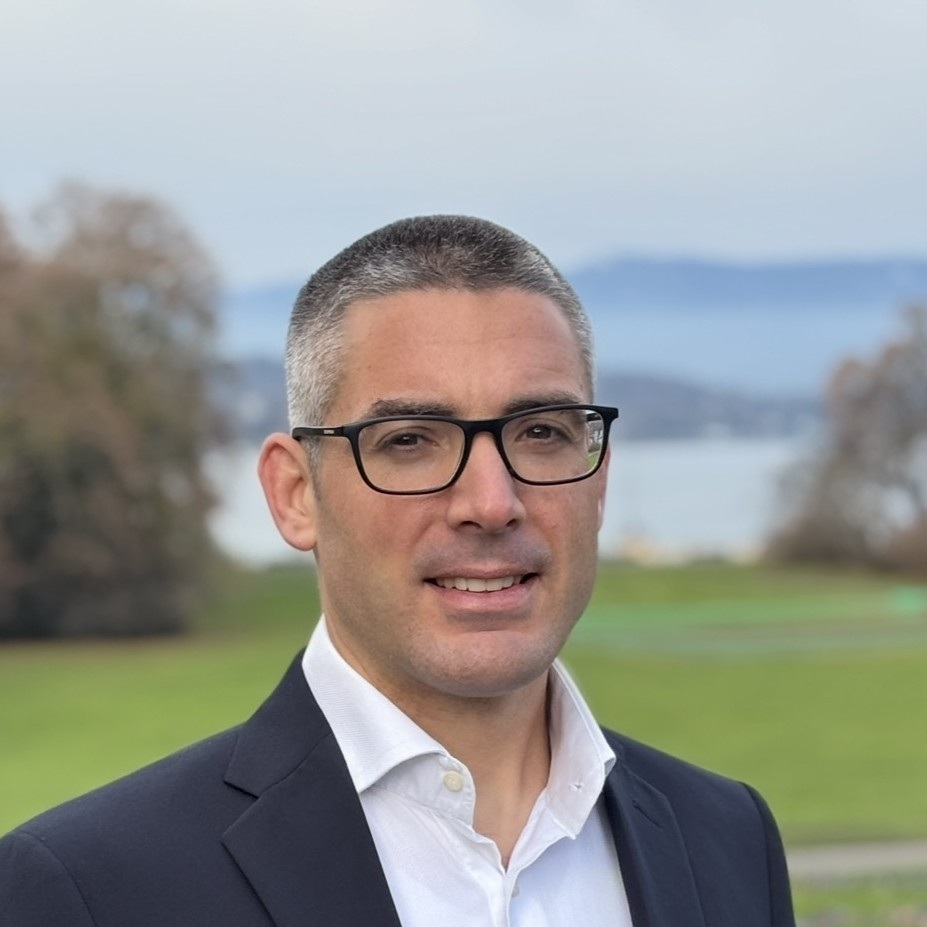
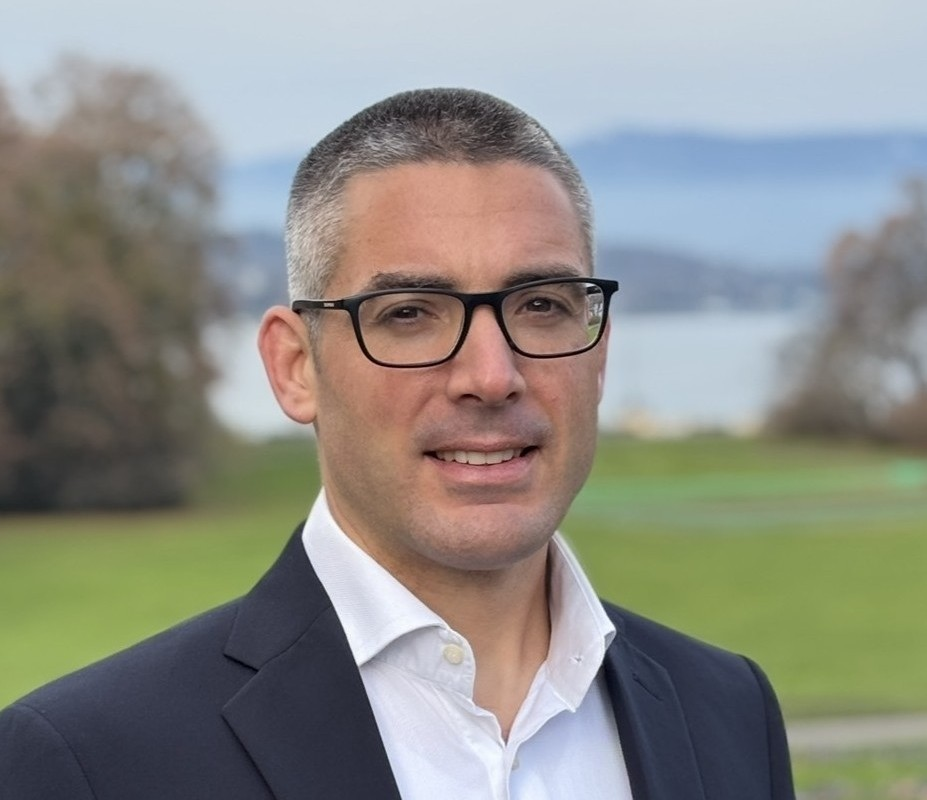
Chiffres des services affichés au survol

diff --git a/index.html b/index.html
@@ -32,13 +32,22 @@ section{max-width:1040px;margin:auto;padding:72px 24px 8px}
 h2{font-size:1.9rem;margin:0 0 28px;color:var(--navy);letter-spacing:-.01em}
 .about{display:grid;grid-template-columns:1.4fr 1fr;gap:48px}
 .about p{margin:0 0 16px;max-width:38em}
+.photo{display:block;width:100%;max-width:260px;aspect-ratio:4/5;object-fit:cover;border-radius:14px;margin-bottom:28px}
 .sectors{border-left:3px solid var(--navy);padding-left:20px;color:var(--muted)}
 .sectors strong{display:block;color:var(--navy);margin-bottom:8px}
 .sectors span{display:block}
-.svc{display:grid;grid-template-columns:repeat(auto-fit,minmax(290px,1fr));gap:0 40px}
-.svc div{border-top:2px solid var(--navy);padding:16px 0 28px}
+.svc{display:grid;grid-template-columns:repeat(auto-fit,minmax(340px,1fr));gap:0 40px}
+.svc>div{position:relative;border-top:2px solid var(--navy);padding:16px 0 28px;outline-offset:4px}
 .svc h3{margin:0 0 6px;font-size:1.1rem;color:var(--navy)}
 .svc p{margin:0;color:var(--muted)}
+.tip{display:none;position:absolute;left:0;right:0;top:calc(100% - 22px);z-index:6;background:#fff;border:1px solid var(--line);border-top:3px solid var(--ridge);border-radius:10px;padding:8px 18px 16px;box-shadow:0 14px 34px rgba(10,31,68,.2)}
+.svc>div:hover .tip,.svc>div:focus .tip,.svc>div:focus-within .tip{display:block}
+.svc>div:hover h3,.svc>div:focus h3{text-decoration:underline;text-decoration-color:var(--ridge);text-underline-offset:4px}
+.hint{margin:-14px 0 24px;color:var(--muted);font-size:.9rem}
+.st{display:flex;gap:14px;align-items:baseline;margin:10px 0 0}
+.st b{min-width:78px;font-size:1.4rem;color:var(--navy);letter-spacing:-.01em}
+.st span{color:var(--muted);font-size:.9rem;line-height:1.4}
+.sr{font-size:.78rem;color:var(--muted);margin-top:14px!important}
 .role{font-weight:700;margin:-12px 0 28px;color:var(--muted)}
 .exp div{border-left:3px solid var(--ridge);padding:0 0 22px 22px;margin-left:4px}
 .exp h3{margin:0 0 4px;color:var(--navy)}
@@ -80,17 +89,47 @@ footer{text-align:center;color:var(--muted);font-size:.85rem;padding:0 24px 40px
 
 <section id="about"><h2 data-i="a_h"></h2>
 <div class="about"><div><p data-i="a_1"></p><p data-i="a_2"></p><p data-i="a_3"></p></div>
-<div class="sectors"><strong data-i="s_h"></strong><span data-i="s_1"></span><span data-i="s_2"></span><span data-i="s_3"></span><span data-i="s_4"></span><span data-i="s_5"></span></div></div></section>
+<div><img class="photo" src="photo.jpg" alt="Arnaud Gavanier" onerror="this.style.display='none'">
+<div class="sectors"><strong data-i="s_h"></strong><span data-i="s_1"></span><span data-i="s_2"></span><span data-i="s_3"></span><span data-i="s_4"></span><span data-i="s_5"></span></div></div></div></section>
 
 <section id="services"><h2 data-i="v_h"></h2>
+<p class="hint" data-i="v_hint"></p>
 <div class="svc">
-<div><h3 data-i="v1t"></h3><p data-i="v1"></p></div>
-<div><h3 data-i="v2t"></h3><p data-i="v2"></p></div>
-<div><h3 data-i="v3t"></h3><p data-i="v3"></p></div>
-<div><h3 data-i="v4t"></h3><p data-i="v4"></p></div>
-<div><h3 data-i="v7t"></h3><p data-i="v7"></p></div>
-<div><h3 data-i="v5t"></h3><p data-i="v5"></p></div>
-<div><h3 data-i="v6t"></h3><p data-i="v6"></p></div>
+<div tabindex="0"><h3 data-i="v1t"></h3><p data-i="v1"></p>
+<div class="tip"><div class="st"><b>55%</b><span data-i="st_a1"></span></div>
+<div class="st"><b>51%</b><span data-i="st_a2"></span></div>
+<div class="st"><b>30%</b><span data-i="st_a3"></span></div>
+<p class="sr"><span data-i="v_src"></span> <a href="https://erp-software.org/en/erp-statistics/">Panorama 2026 ERP Report (via erp-software.org)</a></p></div></div>
+<div tabindex="0"><h3 data-i="v2t"></h3><p data-i="v2"></p>
+<div class="tip"><div class="st"><b>55%</b><span data-i="st_b1"></span></div>
+<div class="st"><b>34%</b><span data-i="st_b2"></span></div>
+<div class="st"><b>~60%</b><span data-i="st_b3"></span></div>
+<p class="sr"><span data-i="v_src"></span> <a href="https://sapinsider.org/research-reports/sapinsider-benchmark-research-erp-migration-and-transformation-2026/">SAPinsider 2026</a>, <a href="https://www.businesswire.com/news/home/20260202883729/en">ISG 2026</a></p></div></div>
+<div tabindex="0"><h3 data-i="v3t"></h3><p data-i="v3"></p>
+<div class="tip"><div class="st"><b>$1.7T</b><span data-i="st_c1"></span></div>
+<div class="st"><b>$600B</b><span data-i="st_c2"></span></div>
+<div class="st"><b>18</b><span data-i="st_c3"></span></div>
+<p class="sr"><span data-i="v_src"></span> <a href="https://www.businesswire.com/news/home/20250818205819/en/The-Hackett-Group-2025-Working-Capital-Survey-Payables-Rebound-but-Receivables-and-Inventory-Lag">Hackett Group 2025</a></p></div></div>
+<div tabindex="0"><h3 data-i="v4t"></h3><p data-i="v4"></p>
+<div class="tip"><div class="st"><b>17%</b><span data-i="st_d1"></span></div>
+<div class="st"><b>5%</b><span data-i="st_d2"></span></div>
+<div class="st"><b>90%</b><span data-i="st_d3"></span></div>
+<p class="sr"><span data-i="v_src"></span> <a href="https://gcom.pdo.aws.gartner.com/smarterwithgartner/b2b-sales-reps-maximize-customer-interactions">Gartner</a></p></div></div>
+<div tabindex="0"><h3 data-i="v7t"></h3><p data-i="v7"></p>
+<div class="tip"><div class="st"><b>76%</b><span data-i="st_e1"></span></div>
+<div class="st"><b>24%</b><span data-i="st_e2"></span></div>
+<div class="st"><b>45%</b><span data-i="st_e3"></span></div>
+<p class="sr"><span data-i="v_src"></span> <a href="https://www.pokerstrategy.com/news/world-of-poker/New-Report-Concludes-Its-a-Game-of-Skill_17618/">Cigital study, 2009</a>, <a href="https://link.loopio.com/hubfs/loopio-trends-report-2025-digital.pdf">Loopio 2025</a></p></div></div>
+<div tabindex="0"><h3 data-i="v5t"></h3><p data-i="v5"></p>
+<div class="tip"><div class="st"><b>1/6</b><span data-i="st_f1"></span></div>
+<div class="st"><b>+200%</b><span data-i="st_f2"></span></div>
+<div class="st"><b>+70%</b><span data-i="st_f3"></span></div>
+<p class="sr"><span data-i="v_src"></span> <a href="https://papers.ssrn.com/abstract=2229735">Flyvbjerg & Budzier, 2011</a></p></div></div>
+<div tabindex="0"><h3 data-i="v6t"></h3><p data-i="v6"></p>
+<div class="tip"><div class="st"><b>39%</b><span data-i="st_g1"></span></div>
+<div class="st"><b>6%</b><span data-i="st_g2"></span></div>
+<div class="st"><b>≤10%</b><span data-i="st_g3"></span></div>
+<p class="sr"><span data-i="v_src"></span> <a href="https://www.mckinsey.com/capabilities/tech-and-ai/our-insights/the-state-of-ai-2025">McKinsey, State of AI 2025</a></p></div></div>
 </div></section>
 
 <section id="experience"><h2 data-i="e_h"></h2><p class="role" data-i="e_role"></p>
@@ -126,9 +165,10 @@ v1t:"ERP selection",v1:"Independent vendor and solution selection, aligned with 
 v2t:"Program lead",v2:"Leading large transformations from roadmap to global rollout.",
 v3t:"Lead-to-Cash expertise",v3:"Subject-matter expert in Quote-to-Cash, Supply Chain and intercompany processes.",
 v4t:"RFP shaping and management",v4:"Solution strategy, delivery model and commercial approach for large RFPs.",
-v7t:"RFP response",v7:"Writing and presenting winning responses, from solution to executive pitch.",
+v7t:"RFP response",v7:"Writing and presenting winning responses, from solution to executive pitch. Like poker, the best hand rarely wins the deal: the strategy behind your response does.",
 v5t:"Quality assurance",v5:"Independent review of programs in flight, with clear recommendations.",
 v6t:"AI enablement",v6:"Business AI use cases and adoption, plus AI-driven practices for efficient, rapid and high-quality delivery.",
+st_a1:"of over-budget ERP projects needed extra technology nobody planned for",st_a2:"were pushed over budget by scope expansion",st_a3:"of ERP projects finish over budget",st_b1:"of organizations have deployed S/4HANA in some form",st_b2:"have fully completed the transition",st_b3:"of SAP migrations run late and over budget",st_c1:"of excess working capital sits in the 1,000 largest US listed companies",st_c2:"of it is locked in receivables, the largest share",st_c3:"days of DSO separate top performers from the median",st_d1:"of a buyer's journey is spent meeting suppliers",st_d2:"of buyer time goes to each supplier when three compete",st_d3:"of buyers loop back to an earlier step in the process",st_e1:"of 103M online poker hands ended before showdown: decisions, not cards, settled them",st_e2:"were won at showdown by the best hand",st_e3:"average RFP win rate across industries",st_f1:"of IT projects becomes a \"black swan\"",st_f2:"average cost overrun on those projects",st_f3:"average schedule overrun on the same projects",st_g1:"of organizations report any enterprise-level profit impact from AI",st_g2:"are AI high performers, with 5%+ of EBIT from AI",st_g3:"scale AI agents in any single function",v_src:"Source:",v_hint:"Hover over (or tap) a service to see the numbers behind it.",
 e_h:"Experience",e_role:"Senior Manager, Deloitte Switzerland, SAP practice",
 e1t:"Global transformation leadership",e1:"End-to-end programs across Life Sciences, Consumer Goods, Industrial Products, Energy and Public Sector, with emphasis on global template design, scalability and value realization.",
 e2t:"End-to-end lifecycle support",e2:"Roadmap, target operating model, solution architecture, deployment, global rollout and Business AI adoption, as the link between business leadership and SAP delivery teams.",
@@ -153,9 +193,10 @@ v1t:"Sélection d'ERP",v1:"Sélection indépendante d'éditeur et de solution, a
 v2t:"Direction de programme",v2:"Pilotage de grandes transformations, de la feuille de route au déploiement mondial.",
 v3t:"Expertise Lead-to-Cash",v3:"Expert Quote-to-Cash, Supply Chain et processus intercompany.",
 v4t:"Cadrage et pilotage de RFP",v4:"Stratégie de solution, modèle de delivery et approche commerciale pour les grands appels d'offres.",
-v7t:"Réponse aux RFP",v7:"Rédaction et présentation de réponses gagnantes, de la solution à la soutenance exécutive.",
+v7t:"Réponse aux RFP",v7:"Rédaction et présentation de réponses gagnantes, de la solution à la soutenance exécutive. Comme au poker, la meilleure main gagne rarement : c'est la stratégie de votre réponse qui fait la différence.",
 v5t:"Assurance qualité",v5:"Revue indépendante des programmes en cours, avec des recommandations claires.",
 v6t:"Accompagnement IA",v6:"Cas d'usage et adoption de la Business AI, et pratiques appuyées sur l'IA pour une delivery efficace, rapide et de haute qualité.",
+st_a1:"des projets ERP en dépassement ont nécessité une technologie non prévue",st_a2:"ont dérapé à cause d'un périmètre qui s'étend",st_a3:"des projets ERP finissent au-dessus du budget",st_b1:"des organisations ont déployé S/4HANA sous une forme ou une autre",st_b2:"ont terminé la transition",st_b3:"des migrations SAP sont en retard et au-dessus du budget",st_c1:"de fonds de roulement excédentaire dans les 1 000 premières sociétés cotées américaines",st_c2:"sont immobilisés dans les créances clients, la plus grande part",st_c3:"jours de DSO séparent les meilleurs de la médiane",st_d1:"du parcours d'achat est passé avec les fournisseurs",st_d2:"du temps de l'acheteur pour chaque fournisseur quand trois sont en lice",st_d3:"des acheteurs reviennent à une étape précédente du processus",st_e1:"des 103 M de mains de poker en ligne se sont terminées avant l'abattage : les décisions, pas les cartes, ont tranché",st_e2:"ont été gagnées à l'abattage par la meilleure main",st_e3:"taux de réussite moyen aux RFP, tous secteurs confondus",st_f1:"des projets IT devient un « cygne noir »",st_f2:"de dépassement de coût moyen sur ces projets",st_f3:"de retard moyen sur ces mêmes projets",st_g1:"des organisations constatent un impact de l'IA sur leur résultat d'entreprise",st_g2:"sont des « high performers » de l'IA, avec 5 % ou plus de l'EBIT issu de l'IA",st_g3:"déploient des agents IA à grande échelle dans une fonction donnée",v_src:"Source :",v_hint:"Survolez (ou touchez) un service pour voir les chiffres qui le sous-tendent.",
 e_h:"Expérience",e_role:"Senior Manager, Deloitte Suisse, practice SAP",
 e1t:"Direction de transformations globales",e1:"Programmes de bout en bout en Sciences de la vie, Biens de consommation, Produits industriels, Énergie et Secteur public, avec un accent sur la conception de templates globaux, la scalabilité et la création de valeur.",
 e2t:"Accompagnement sur tout le cycle de vie",e2:"Feuille de route, modèle opérationnel cible, architecture de solution, déploiement, rollout global et adoption de la Business AI, en lien entre la direction métier et les équipes SAP.",
@@ -180,9 +221,10 @@ v1t:"ERP-Auswahl",v1:"Unabhängige Anbieter- und Lösungsauswahl, ausgerichtet a
 v2t:"Programmleitung",v2:"Leitung grosser Transformationen von der Roadmap bis zum globalen Rollout.",
 v3t:"Lead-to-Cash-Expertise",v3:"Fachexperte für Quote-to-Cash, Supply Chain und Intercompany-Prozesse.",
 v4t:"RFP-Gestaltung und -Steuerung",v4:"Lösungsstrategie, Delivery-Modell und kommerzieller Ansatz für grosse Ausschreibungen.",
-v7t:"RFP-Antwort",v7:"Erstellung und Präsentation überzeugender Angebote, von der Lösung bis zum Executive Pitch.",
+v7t:"RFP-Antwort",v7:"Erstellung und Präsentation überzeugender Angebote, von der Lösung bis zum Executive Pitch. Wie beim Poker gewinnt selten die beste Hand: Die Strategie hinter Ihrer Antwort entscheidet.",
 v5t:"Qualitätssicherung",v5:"Unabhängige Prüfung laufender Programme mit klaren Empfehlungen.",
 v6t:"AI Enablement",v6:"Business-AI-Use-Cases und Adoption sowie KI-gestützte Arbeitsweisen für eine effiziente, schnelle und qualitativ hochwertige Delivery.",
+st_a1:"der ERP-Projekte mit Budgetüberschreitung brauchten ungeplante Zusatztechnologie",st_a2:"gerieten durch Umfangserweiterung über das Budget",st_a3:"der ERP-Projekte überschreiten das Budget",st_b1:"der Unternehmen haben S/4HANA in irgendeiner Form eingeführt",st_b2:"haben den Wechsel vollständig abgeschlossen",st_b3:"der SAP-Migrationen verzögern sich und überschreiten das Budget",st_c1:"überschüssiges Working Capital bei den 1.000 grössten börsenkotierten US-Unternehmen",st_c2:"davon stecken in Forderungen, dem grössten Anteil",st_c3:"Tage DSO trennen die Besten vom Median",st_d1:"der Kaufreise verbringen Käufer im Gespräch mit Anbietern",st_d2:"der Käuferzeit entfallen auf jeden Anbieter, wenn drei konkurrieren",st_d3:"der Käufer kehren zu einem früheren Schritt zurück",st_e1:"von 103 Mio. Online-Pokerhänden endeten vor dem Showdown: Entscheidungen, nicht Karten, gaben den Ausschlag",st_e2:"wurden im Showdown mit der besten Hand gewonnen",st_e3:"durchschnittliche RFP-Gewinnquote über alle Branchen",st_f1:"der IT-Projekte wird zum «Schwarzen Schwan»",st_f2:"durchschnittliche Kostenüberschreitung bei diesen Projekten",st_f3:"durchschnittliche Terminüberschreitung bei denselben Projekten",st_g1:"der Unternehmen sehen überhaupt einen Gewinneffekt durch KI auf Unternehmensebene",st_g2:"sind KI-High-Performer mit mindestens 5 % des EBIT aus KI",st_g3:"skalieren KI-Agenten in einer einzelnen Funktion",v_src:"Quelle:",v_hint:"Fahren Sie über einen Service (oder tippen Sie darauf), um die Zahlen dahinter zu sehen.",
 e_h:"Erfahrung",e_role:"Senior Manager, Deloitte Schweiz, SAP Practice",
 e1t:"Globale Transformationsleitung",e1:"End-to-End-Programme in Life Sciences, Konsumgütern, Industrieprodukten, Energie und öffentlichem Sektor, mit Schwerpunkt auf globalem Template-Design, Skalierbarkeit und Wertrealisierung.",
 e2t:"Begleitung über den gesamten Lebenszyklus",e2:"Roadmap, Ziel-Operating-Model, Lösungsarchitektur, Deployment, globaler Rollout und Business-AI-Adoption, als Bindeglied zwischen Geschäftsleitung und SAP-Delivery-Teams.",
